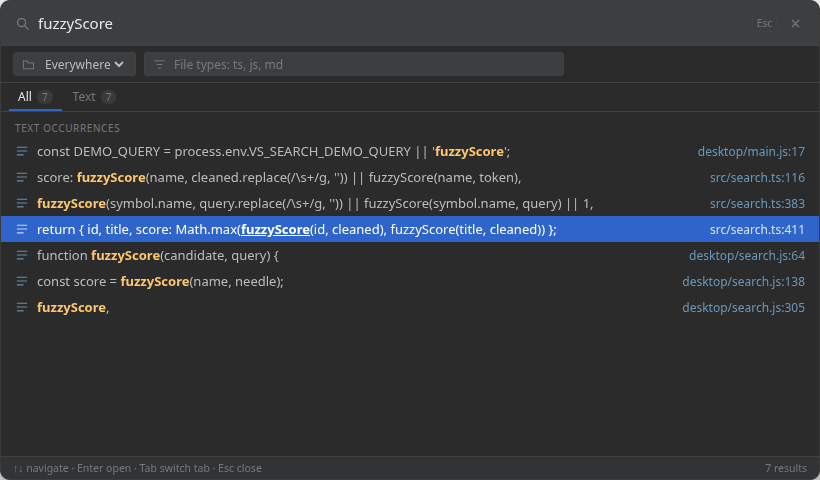
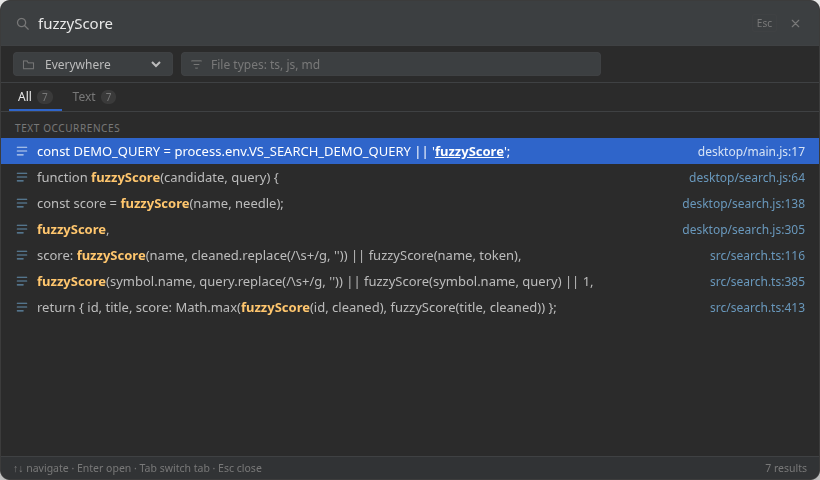
feat: half-screen search tab with folder tree in the scope picker
Open the search beside the current editor (ViewColumn.Beside) so it takes
half the window like the Claude Code panel instead of replacing the page.
Results now open in the primary column (ViewColumn.One) so the search tab
stays visible while browsing matches.

The scope dropdown lists workspace roots plus their direct subfolders and
gains a Browse... entry that opens the native folder dialog (VS Code and
Electron) to pick any path.

Also fix a path bug: ripgrep prints paths relative to its cwd, and they
were wrapped in Uri.file without joining the cwd, which would have opened
the wrong file whenever a scope other than the workspace root was used.

diff --git a/src/page.ts b/src/page.ts
@@ -53,7 +53,8 @@ export function showSearchPage(context: vscode.ExtensionContext, options: PageOp
   const panel = vscode.window.createWebviewPanel(
     'vsSearch.page',
     'Search Everywhere',
-    { viewColumn: vscode.ViewColumn.Active, preserveFocus: false },
+    // Like Claude Code: a half-screen tab beside the current editor.
+    { viewColumn: vscode.ViewColumn.Beside, preserveFocus: false },
     {
       enableScripts: true,
       retainContextWhenHidden: true,
@@ -95,6 +96,9 @@ export function showSearchPage(context: vscode.ExtensionContext, options: PageOp
           break;
         case 'query':
           schedule(current, message.value ?? '', message.scope ?? '', message.types ?? '');
+          break;
+        case 'browseScope':
+          void pickFolder(current);
           break;
         case 'accept':
           void accept(current, message.item, message.alt === true);
@@ -204,10 +208,14 @@ async function accept(
     return;
   }
 
-  // The page stays open; the file opens in a preview tab next to it.
+  // The page stays open; the file opens in the primary editor beside it.
   const uri = vscode.Uri.parse(item.uri);
   if (item.kind === 'file') {
-    await vscode.commands.executeCommand('vscode.open', uri);
+    const document = await vscode.workspace.openTextDocument(uri);
+    await vscode.window.showTextDocument(document, {
+      viewColumn: vscode.ViewColumn.One,
+      preview: true,
+    });
     return;
   }
 
@@ -217,6 +225,7 @@ async function accept(
     Math.max(0, (item.column ?? 1) - 1)
   );
   await vscode.window.showTextDocument(document, {
+    viewColumn: vscode.ViewColumn.One,
     preview: true,
     selection: new vscode.Range(position, position),
   });
@@ -267,10 +276,58 @@ function theme(): string {
 }
 
 function folders(): Array<{ name: string; path: string }> {
-  return (vscode.workspace.workspaceFolders ?? []).map((folder) => ({
-    name: folder.name,
-    path: folder.uri.fsPath,
-  }));
+  const list: Array<{ name: string; path: string }> = [];
+  for (const root of vscode.workspace.workspaceFolders ?? []) {
+    list.push({ name: root.name, path: root.uri.fsPath });
+    list.push(...subfolders(root.uri.fsPath, root.name));
+  }
+  return list;
+}
+
+const SKIPPED_DIRS = new Set([
+  'node_modules',
+  '.git',
+  'dist',
+  'out',
+  'build',
+  'target',
+  'coverage',
+  '.next',
+  '.nuxt',
+]);
+
+/** Direct subfolders of a root, labelled relative to the workspace. */
+function subfolders(dir: string, label: string): Array<{ name: string; path: string }> {
+  const result: Array<{ name: string; path: string }> = [];
+  try {
+    for (const entry of fs.readdirSync(dir, { withFileTypes: true })) {
+      if (result.length >= 40) {
+        break;
+      }
+      if (!entry.isDirectory() || entry.name.startsWith('.') || SKIPPED_DIRS.has(entry.name)) {
+        continue;
+      }
+      result.push({
+        name: `${label}/${entry.name}`,
+        path: path.join(dir, entry.name),
+      });
+    }
+  } catch {
+    // unreadable root
+  }
+  return result.sort((a, b) => a.name.localeCompare(b.name));
+}
+
+async function pickFolder(current: SearchSession): Promise<void> {
+  const picked = await vscode.window.showOpenDialog({
+    canSelectFolders: true,
+    canSelectMany: false,
+    openLabel: 'Set search scope',
+    defaultUri: current.scope ? vscode.Uri.file(current.scope) : undefined,
+  });
+
+  const scope = picked?.[0]?.fsPath ?? current.scope;
+  post(current, { type: 'folders', folders: folders(), scope });
 }
 
 function initMessage(options: PageOptions): Record<string, unknown> {

diff --git a/media/overlay.js b/media/overlay.js
@@ -37,6 +37,27 @@
   const scopeEl = document.getElementById('scope');
   const typesEl = document.getElementById('types');
 
+  function renderScopeOptions(folders, selected) {
+    state.folders = folders || [];
+    const current = selected || scopeEl.value || '';
+    let html = '<option value="">Everywhere</option>';
+    for (const folder of state.folders) {
+      const label = folder.name || folder.path;
+      html +=
+        '<option value="' +
+        esc(folder.path) +
+        '"' +
+        (folder.path === current ? ' selected' : '') +
+        '>' +
+        esc(label) +
+        '</option>';
+    }
+    html += '<option value="__browse__">Browse\u2026</option>';
+    scopeEl.innerHTML = html;
+    scopeEl.value = current;
+    state.scope = current;
+  }
+
   function esc(value) {
     return String(value).replace(/[&<>"']/g, function (char) {
       return { '&': '&amp;', '<': '&lt;', '>': '&gt;', '"': '&quot;', "'": '&#39;' }[char];
@@ -311,6 +332,11 @@
   });
 
   scopeEl.addEventListener('change', function () {
+    if (scopeEl.value === '__browse__') {
+      scopeEl.value = state.scope || '';
+      vscode.postMessage({ type: 'browseScope' });
+      return;
+    }
     state.scope = scopeEl.value;
     vscode.postMessage({ type: 'query', value: state.query, scope: state.scope, types: state.types });
   });
@@ -411,25 +437,7 @@
         document.body.dataset.theme = message.theme;
       }
       if (Array.isArray(message.folders)) {
-        state.folders = message.folders;
-        const selected = scopeEl.value || '';
-        scopeEl.innerHTML =
-          '<option value="">Everywhere</option>' +
-          message.folders
-            .map(function (folder) {
-              const label = folder.name || folder.path;
-              return (
-                '<option value="' +
-                esc(folder.path) +
-                '"' +
-                (folder.path === selected ? ' selected' : '') +
-                '>' +
-                esc(label) +
-                '</option>'
-              );
-            })
-            .join('');
-        state.scope = scopeEl.value;
+        renderScopeOptions(message.folders);
       }
       state.tab = message.tab || 'all';
       if (message.initial) {
@@ -464,6 +472,17 @@
       state.sel = 0;
       clampSelection();
       render();
+      return;
+    }
+
+    if (message.type === 'folders') {
+      renderScopeOptions(message.folders, message.scope);
+      vscode.postMessage({
+        type: 'query',
+        value: state.query,
+        scope: state.scope,
+        types: state.types,
+      });
       return;
     }
 

diff --git a/desktop/main.js b/desktop/main.js
@@ -3,7 +3,7 @@
 //
 // It reuses the exact same UI as the VS Code webview (media/overlay.html,
 // overlay.css, overlay.js) and opens results in VS Code via `code -g`.
-const { app, BrowserWindow, ipcMain, screen } = require('electron');
+const { app, BrowserWindow, ipcMain, screen, dialog } = require('electron');
 const { spawn } = require('child_process');
 const fs = require('fs');
 const os = require('os');
@@ -140,6 +140,43 @@ function hide() {
   win.hide();
 }
 
+const SKIPPED_DIRS = new Set([
+  'node_modules',
+  '.git',
+  'dist',
+  'out',
+  'build',
+  'target',
+  'coverage',
+  '.next',
+  '.nuxt',
+]);
+
+/** Workspace roots plus their direct subfolders, for the scope dropdown. */
+function scopeFolders() {
+  const list = [];
+  for (const root of workspaceRoots()) {
+    list.push({ name: path.basename(root) || root, path: root });
+    try {
+      for (const entry of fs.readdirSync(root, { withFileTypes: true })) {
+        if (list.length >= 60) {
+          break;
+        }
+        if (!entry.isDirectory() || entry.name.startsWith('.') || SKIPPED_DIRS.has(entry.name)) {
+          continue;
+        }
+        list.push({
+          name: `${path.basename(root)}/${entry.name}`,
+          path: path.join(root, entry.name),
+        });
+      }
+    } catch {
+      // unreadable root
+    }
+  }
+  return list;
+}
+
 function send(message) {
   if (win && !win.isDestroyed()) {
     win.webContents.send('overlay:message', message);
@@ -200,15 +237,26 @@ ipcMain.on('overlay:message', (event, message) => {
         mode: 'desktop',
         initial: '',
         tab: 'all',
-        folders: workspaceRoots().map((root) => ({
-          name: path.basename(root) || root,
-          path: root,
-        })),
+        folders: scopeFolders(),
       });
       break;
     case 'query':
       schedule(String(message.value || ''), String(message.scope || ''), String(message.types || ''));
       break;
+    case 'browseScope': {
+      const options = { properties: ['openDirectory'], title: 'Set search scope' };
+      if (lastScope) {
+        options.defaultPath = lastScope;
+      }
+      dialog
+        .showOpenDialog(win, options)
+        .then((result) => {
+          const scope = (!result.canceled && result.filePaths[0]) || lastScope || '';
+          send({ type: 'folders', folders: scopeFolders(), scope });
+        })
+        .catch(() => send({ type: 'folders', folders: scopeFolders(), scope: lastScope || '' }));
+      break;
+    }
     case 'accept':
       if (openResult(message.item)) {
         hide();

diff --git a/src/search.ts b/src/search.ts
@@ -279,7 +279,9 @@ function parseRgLine(line: string, cwd: string): ResultItem | undefined {
     }
   }
 
-  const uri = vscode.Uri.file(parsed.data.path.text);
+  const relative = parsed.data.path.text.replace(/^\.\//, '');
+  // rg prints paths relative to its cwd; make them absolute before wrapping.
+  const uri = vscode.Uri.file(path.isAbsolute(relative) ? relative : path.join(cwd, relative));
   return {
     kind: 'text',
     label: text.length > 240 ? text.slice(0, 240) : text,

diff --git a/README.md b/README.md
@@ -9,9 +9,9 @@
 
 ## استفاده
 
-- **آیکون بالا-راست** یا `Ctrl+Alt+Shift+F` → تب سرچ باز میشود
+- **آیکون بالا-راست** یا `Ctrl+Alt+Shift+F` → تب سرچ **کنار ادیتور فعلی، نصف صفحه** باز میشود (مثل Claude Code)
 - تایپ کن → نتایج زنده در بخشهای `Files` / `Text occurrences` / `Symbols` / `Commands`
-- `Enter` → فایل روی همان خط باز میشود (تب سرچ باز میماند)
+- `Enter` → فایل در ادیتور اصلی (ستون اول) باز میشود و **تب سرچ سر جایش میماند**
 - `Alt+Enter` → همان query در Search Editor نیتیو VS Code (با همان فیلترها)
 - `Esc` → بستن تب
 
@@ -20,9 +20,9 @@
 | `↑` `↓` / `PageUp` `PageDown` | حرکت در نتایج |
 | `Tab` / `Shift+Tab` | عوض کردن تب نتایج |
 
-## دو فیلتر جدید
+## دو فیلتر
 
-1. **مسیر (Scope)** — بالای سرچ، دکمهٔ کنار آیکون پوشه: `Everywhere` یا هر پوشه از workspace. سرچ فقط در همان مسیر انجام میشود (هم Files، هم Text، هم Symbols).
+1. **مسیر (Scope)** — دکمهٔ کنار آیکون پوشه: `Everywhere`، ریشهی workspace، یا **زیرپوشههای مستقیم** آن (مثلاً `vs-search/src`). آخرین گزینه `Browse…` است که با دیالوگ نیتیو هر پوشهای را انتخاب میکند. سرچ فقط در همان مسیر انجام میشود (Files + Text + Symbols).
 2. **نوع فایل** — باکس `File types`: مثلاً `ts, js, md` یا `*.py`. هم لیست فایلها و هم متن فقط در همان پسوندها جستوجو میشود.
 
 هر دو فیلتر به `Alt+Enter` هم میرسند (Search Editor با include همان scope/types باز میشود).
